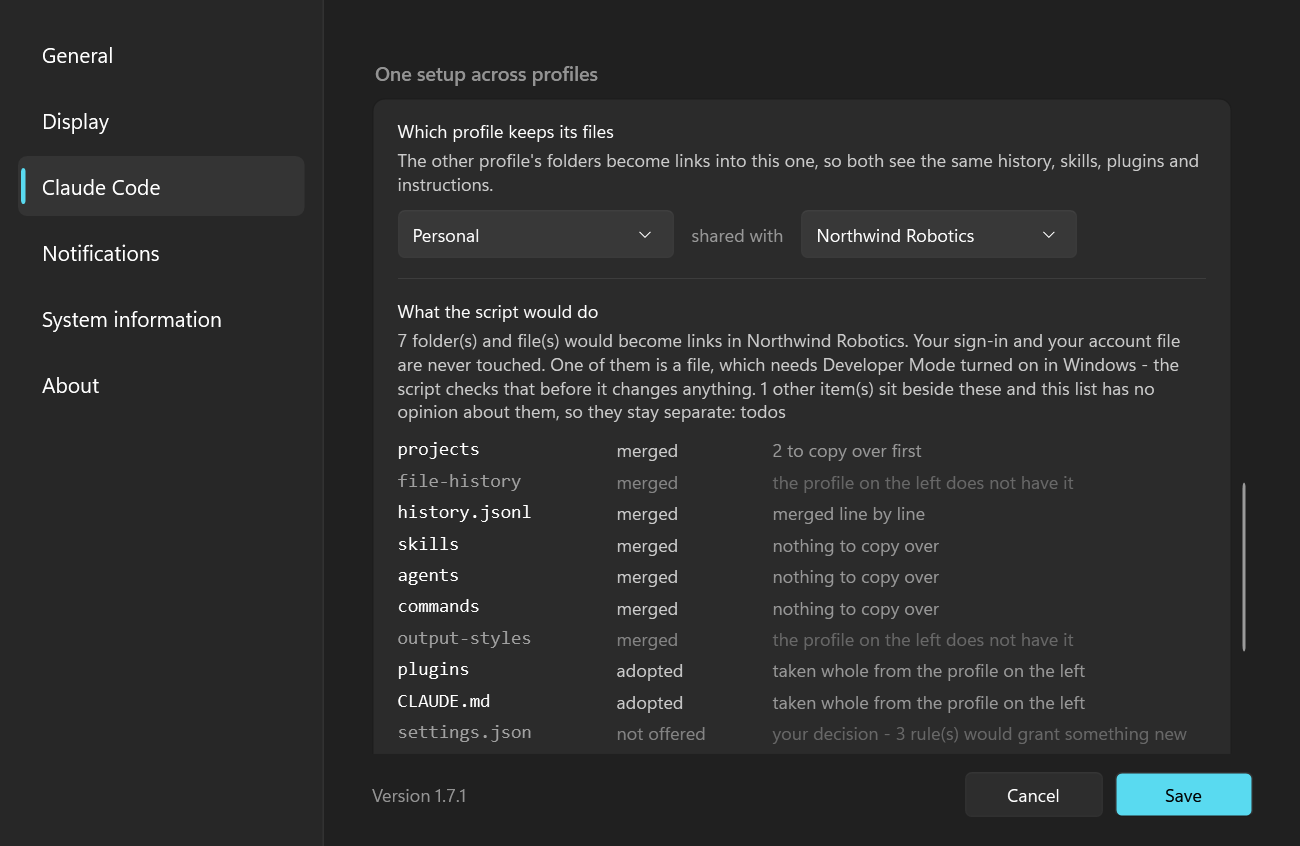
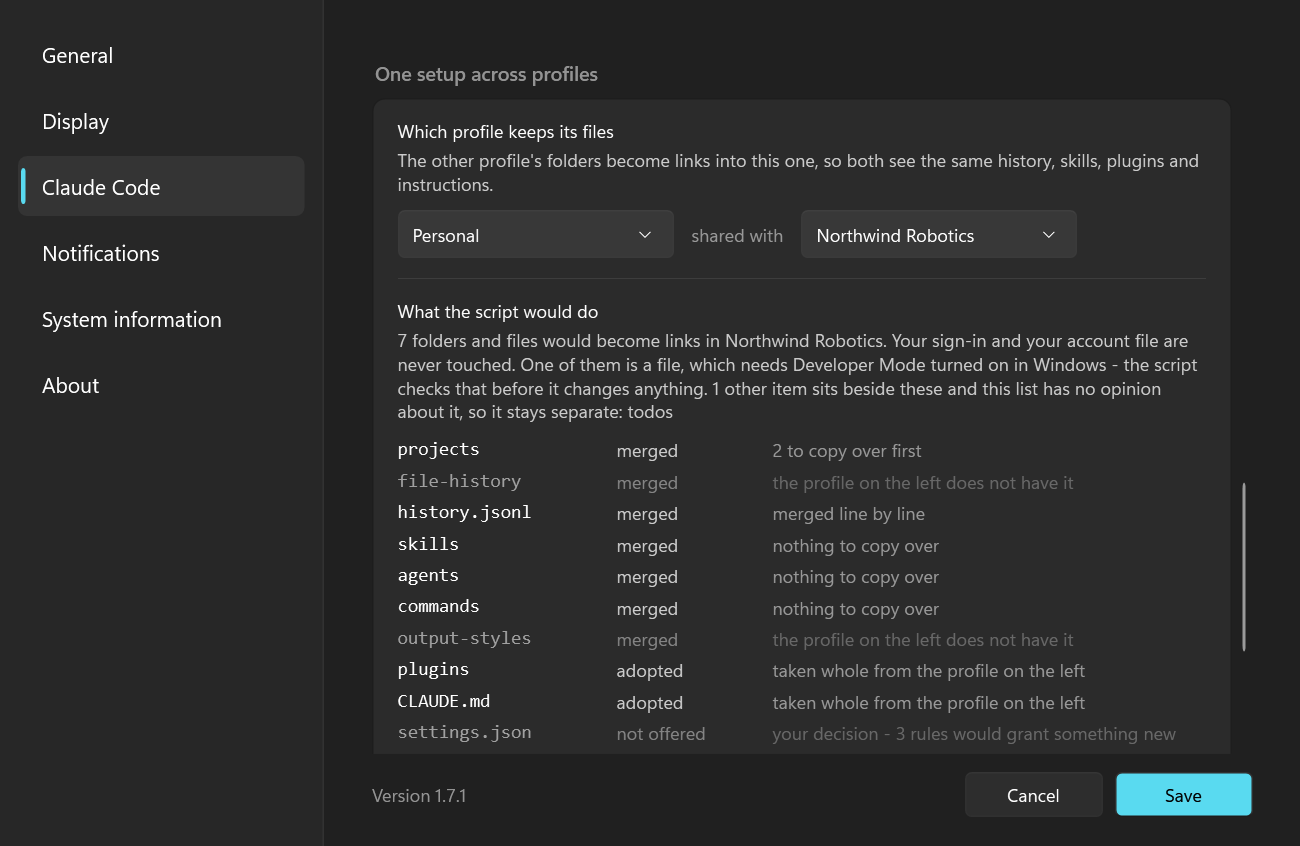
feat: pick a counted string by its number instead of writing rule(s) (T376)
- This commit introduces a new method for handling counted strings, allowing the application to select between singular and plural forms based on the count.
- The `L.N(stem, count, ...)` method replaces the previous workaround of using `(s)` for pluralization, which was not suitable for all languages.
- The implementation ensures that all five supported languages are correctly represented with only two forms (singular and plural), avoiding the complexities of Slavic languages' three-form rules.
- A self-test mechanism has been added to verify that both forms of counted strings are present and correctly formatted, preventing issues with missing translations.
- Updates to various UI components ensure that the new pluralization logic is consistently applied across the application, enhancing localization accuracy.

Changed region(s): [[0.3077, 0.3995, 0.9231, 0.4917], [0.7385, 0.8605, 0.9231, 0.8913]]

diff --git a/src/Cli/SelfTestCli.cs b/src/Cli/SelfTestCli.cs
@@ -2154,6 +2154,50 @@ internal static class SelfTestCli
             Check($"{code} keeps every placeholder en has", slipped.Length == 0,
                   Named(slipped, "differing in their {0}-style holes, so a number is dropped or misplaced"));
         }
+
+        Plurals(en);
+    }
+
+    /// <summary>
+    /// The counted strings, held as pairs (T376). <c>L.N</c> asks for <c>&lt;stem&gt;.one</c> or
+    /// <c>&lt;stem&gt;.many</c> by the number, and a stem carrying only one of the two prints the missing
+    /// half in English on whichever count the translator did not think of — or the raw key, if English is
+    /// the file that is short.
+    ///
+    /// <para><b>The plural form has to take the count; the singular does not.</b> That asymmetry is not a
+    /// concession, it is the data: the three pairs that predate <c>L.N</c> write their singulars as
+    /// <c>"1 minute"</c> and <c>", 1 week away excluded"</c>, and they are right to — in the singular the
+    /// number is one, so spelling it is prose rather than a hole, and several languages drop it entirely.
+    /// A <c>.many</c> with no <c>{0}</c> is the real defect: it says "folders" and never how many.</para>
+    ///
+    /// <para>Swept over <c>en</c> alone, because the parity checks above already hold every other file to
+    /// it key for key: a stem complete here and half-translated there is <c>missing</c>, not this.</para>
+    /// </summary>
+    private static void Plurals(IReadOnlyDictionary<string, string> en)
+    {
+        string[] stems = en.Keys
+            .Where(k => L.Plural.Any(p => k.EndsWith(p, StringComparison.Ordinal)))
+            .Select(k => k[..k.LastIndexOf('.')])
+            .Distinct(StringComparer.Ordinal).Order(StringComparer.Ordinal).ToArray();
+
+        // The precondition: a rename that lost the suffix convention would leave every claim below holding
+        // over an empty set, which is the one way this check can go quiet.
+        if (!Check($"the counted strings are found by their suffixes ({stems.Length})", stems.Length > 0,
+                   $"no key ends in {string.Join(" or ", L.Plural)}, so nothing was compared"))
+            return;
+
+        string[] halved = stems.Where(s => !L.Plural.All(p => en.ContainsKey(s + p)))
+                               .Order(StringComparer.Ordinal).ToArray();
+        Check($"every counted string is written in both forms ({stems.Length})", halved.Length == 0,
+              Named(halved, $"carrying only one of {string.Join(" / ", L.Plural)}, so the other count "
+                            + "falls back or prints the key"));
+
+        string[] countless = stems.Select(s => s + L.Plural[1])
+                                  .Where(k => en.TryGetValue(k, out string? v)
+                                              && !v.Contains("{0}", StringComparison.Ordinal))
+                                  .Order(StringComparer.Ordinal).ToArray();
+        Check($"and every plural form takes the count ({stems.Length})", countless.Length == 0,
+              Named(countless, "having no {0}, so it says what was counted and never how many"));
     }
 
     // The keys of one table matching a predicate, ordered so the same gap reads the same way twice.

diff --git a/src/Core/Localization.cs b/src/Core/Localization.cs
@@ -161,6 +161,34 @@ internal static class L
     /// <summary>A localized format string filled with <paramref name="args"/> (see <see cref="T(string)"/>).</summary>
     public static string T(string key, params object[] args) => string.Format(T(key), args);
 
+    /// <summary>The suffixes a counted string is written in: one for exactly one, one for everything
+    /// else. Public so <c>--selftest</c> sweeps for the pair rather than keeping its own copy (T376).</summary>
+    public static readonly string[] Plural = { ".one", ".many" };
+
+    /// <summary>
+    /// A localized string chosen by a count: <c><paramref name="stem"/>.one</c> when
+    /// <paramref name="count"/> is exactly 1, <c>.many</c> otherwise. The count is the first hole,
+    /// formatted through <see cref="Nums"/>, and any further <paramref name="args"/> follow it.
+    ///
+    /// <para><b>Why this exists (T376).</b> The workaround was <c>(s)</c>, and <c>(s)</c> is an English
+    /// convention: <c>regra(s)</c> reads as a typo in Portuguese and Spanish, <c>règle(s)</c> the same in
+    /// French, and <c>entry(ies)</c> is not a form of any word in any of them. The commonest case is the
+    /// worst one — <i>"1 rule(s) would grant something new"</i> — because the interesting counts are
+    /// small.</para>
+    ///
+    /// <para><b>Two forms, and deliberately not more.</b> All five shipped languages have exactly two;
+    /// Slavic three-form rules are real and are not a thing here, and a plural library is a NuGet package
+    /// the single-<c>.exe</c> rule forbids (§I.3). If a sixth language ever needs three, that is the day
+    /// to grow this — not before.</para>
+    ///
+    /// <para>Falls back the same way <see cref="T(string)"/> does, key by key, so a translation missing
+    /// one form of a pair reads in English rather than printing a key. <c>--selftest</c> is what stops that
+    /// from being how it ships.</para>
+    /// </summary>
+    public static string N(string stem, double count, params object[] args) =>
+        string.Format(T(stem + (Math.Abs(count - 1) < 0.0001 ? Plural[0] : Plural[1])),
+                      new object[] { Nums.Of(count) }.Concat(args).ToArray());
+
     // Parsed string tables, loaded from the embedded JSON on first use and cached for the process.
     private static readonly Dictionary<Lang, Dictionary<string, string>> _tables = new();
 

diff --git a/src/Ui/SettingsPage.General.cs b/src/Ui/SettingsPage.General.cs
@@ -29,8 +29,11 @@ internal partial class SettingsPage
         RetryValue.Text = RetryText((int)Math.Round(RetrySlider.Value));
     }
 
-    private static string RetryText(int seconds) =>
-        seconds == 1 ? L.T("settings.sec.one") : L.T("settings.sec.many", seconds);
+    // Through L.N rather than a hand-rolled `== 1 ?` (T376). This call site and the one below were two of
+    // the three that had written the same conditional themselves — and this one passed the raw int, so its
+    // number went through the current culture instead of Nums (T216) on the one surface where a comma for
+    // a decimal point is the difference between 1.5 and 15.
+    private static string RetryText(int seconds) => L.N("settings.sec", seconds);
 
     private void UpdateIntervalLabel()
     {
@@ -41,9 +44,9 @@ internal partial class SettingsPage
         UpdateCostEstimate(m);
     }
 
-    // The number is invariant like every other one in the app (Nums, T216); only the unit is translated.
-    private static string IntervalText(double minutes) =>
-        minutes == 1.0 ? L.T("settings.min.one") : L.T("settings.min.many", Nums.Of(minutes));
+    // The number is invariant like every other one in the app (Nums, T216); only the unit is translated —
+    // and L.N is now the one place that holds both halves of that (T376).
+    private static string IntervalText(double minutes) => L.N("settings.min", minutes);
 
     // Show, live for the chosen cadence, how much the polling "heartbeat" consumes. It uses Claude
     // Code's subscription login, so there is no separate bill — it just draws a sliver of your usage;

diff --git a/src/Ui/SettingsPage.ClaudeCode.cs b/src/Ui/SettingsPage.ClaudeCode.cs
@@ -309,10 +309,10 @@ internal partial class SettingsPage
         // The edge, on the surface the decision is made on (T374): a list of opinions has to say what it
         // has no opinion about, or the reader is told nothing is missing.
         string[] unclaimed = _linkPlan.Edge.Unclaimed;
-        LinkPlanCaption.Text = L.T("settings.cc.linkPlanCount", Nums.Of(acting), _linkPlan.SecondaryLabel)
+        LinkPlanCaption.Text = L.N("settings.cc.linkPlanCount", acting, _linkPlan.SecondaryLabel)
                                + (_linkPlan.NeedsSymlink ? " " + L.T("settings.cc.linkNeedsDev") : "")
                                + (unclaimed.Length > 0
-                                   ? " " + L.T("settings.cc.linkEdge", Nums.Of(unclaimed.Length),
+                                   ? " " + L.N("settings.cc.linkEdge", unclaimed.Length,
                                        string.Join(", ", unclaimed.Take(4))
                                        + (unclaimed.Length > 4 ? " …" : ""))
                                    : "");

diff --git a/src/Ui/LinkPlanRow.cs b/src/Ui/LinkPlanRow.cs
@@ -75,7 +75,7 @@ public sealed class LinkPlanRow
             {
                 null or { Error.Length: > 0 } => L.T("settings.cc.linkWithheldDetail"),
                 { Empty: true } => L.T("settings.cc.linkWithheldSame"),
-                { } w => L.T("settings.cc.linkWithheldGrants", Nums.Of(w.Granting)),
+                { } w => L.N("settings.cc.linkWithheldGrants", w.Granting),
             };
         if (s.AlreadyLinked) return L.T("settings.cc.linkAlready");
         if (!s.OnPrimary) return L.T("settings.cc.linkAbsent");

diff --git a/IMPROVEMENTS.md b/IMPROVEMENTS.md
@@ -43,8 +43,6 @@
 
 ---
 
-## Block G — Localization
-
 ## §I — House constraints
 
 Binding for every task. These are product decisions, not preferences — a task that violates one is
@@ -832,37 +830,3 @@ maintained the same way instead of each carrying its own conventions.
 T369 finished the shape by drawing what the other three have and this one did not: a band closing
 the hero and opening the footer, whose motif is the product's own subject. Here that is the icon —
 bars rising from a floor, with the even-pace line ruled across them.
-
-## XCV What the linking surface does not say
-
-Four tasks shipped the linking script and the page that offers it, and running the whole thing on a
-real pair is what produced the three below. None of them is about the mechanism: the links work, the
-merges work, the refusals hold. They are about what the surface does not say — an entry the
-catalogue has no row for, a card that no longer fits in one screenshot, and a plural rule the app
-has never had.
-
-That is the shape to expect from a fixed catalogue and a growing page. The catalogue is a list of
-opinions, and the honest failure mode of a list of opinions is silence about everything not on it.
-
-### XCV.3 A plural rule the app has never had (T376)
-
-This app has never had a plural rule, and the workaround is `(s)`. `SourceRows` states the policy
-the other way round and states it well: a count belongs in a header rather than in a string that
-would need one. That worked while the counts were few and lived in headers.
-
-The linking card broke it. One surface now carries `folder(s) and file(s)`, `rule(s)`, `to copy
-over`, `command(s)`, `entry(ies)` and `session uuid(s)`, in five languages — and `(s)` is an English
-convention. Portuguese and Spanish read `regra(s)` as a typo, French `règle(s)` the same, and
-`entry(ies)` is not a form of any word in any of them. The single worst case is 1: **"1 rule(s)
-would grant something new"** is the sentence a person sees most often, because the interesting
-unions are small.
-
-- **Two forms per count, chosen by the number.** `L.T("…one", n)` and `L.T("…many", n)`, resolved by a
-  helper that takes the count and the key stem. Two forms cover all five languages this app ships;
-  Slavic three-form rules are a real thing and not a thing here, so the design stops at two rather than
-  importing a plural library the single-`.exe` rule forbids anyway (§I.3).
-- **Asserted, or it will not hold.** `--selftest` already fails a key present in one language and a
-  `{0}` lost in translation (T185). A stem with `…one` and no `…many` — or either without a `{0}` — is
-  the same class of hole and belongs in the same sweep.
-- **Not a rewrite of every string.** Only counts a user reads, which is a list this task can enumerate.
-  A dev read-out keeps `(s)`; its audience is whoever is editing this repository.

diff --git a/CHANGELOG.md b/CHANGELOG.md
@@ -23,7 +23,7 @@
 | [D](#block-d--auth--api-resilience) | Auth & API resilience |
 | [E](#block-e--reset-notifications--toasts) | Reset notifications & toasts |
 | [F](#block-f--statistics-window-pace-report) | Statistics window (pace report) |
-| [G](#block-g--localization) | Localization (active — see ROADMAP) |
+| [G](#block-g--localization) | Localization |
 | [H](#block-h--tray-display-options) | Tray display options |
 | [I](#block-i--context-load-inspector) | Context Load Inspector |
 | [J](#block-j--activity-aware-pacing) | Activity-aware pacing |
@@ -183,6 +183,7 @@
 - **T60** — Language selection in Settings (`auto` = follow the OS) with a restart prompt, since localized strings resolve when a window is parsed. (`304b9ca`)
 - **T216** — Numbers are invariant everywhere and dates follow the display language, stated once in Nums and named into L.DateCulture; the split between chart and prose was refused because one context row carries a size beside a token estimate, so wherever its line fell it cut through a sentence. The format sweep now runs every static formatter on all six surfaces, not twelve on one page.
 - **T263** — A date takes the order of its fields from the culture and not from a pattern in the source, through Dates - the other half of the rule Nums states for numbers. The Statistics axis put the month first in French, where all four non-English cultures put the day first, and its day dividers read 3/8 for 3 August to an American whose short date is month-first, on the chart the published screenshots are of. Checked over every shipped language against that culture own MonthDayPattern and ShortDatePattern, with the precondition that they disagree, so the sweep is not vacuous. The three published stats captures are regenerated.
+- **T376** — L.N(stem, count, ...) picks <stem>.one or <stem>.many by the number and passes it as {0} through Nums, so the three counted strings on the linking card read "1 outro item fica ao lado destes ... continua separado" in Portuguese instead of "1 item(ns)" - agreement on the verb and the pronoun, which (s) could never carry. Two forms and not three: all five shipped languages have two, Slavic rules are real and not a thing here, and a plural library is a NuGet package the single-exe rule forbids. The convention turned out to predate the helper: three pairs were already written this way and three call sites had each hand-rolled the same == 1 conditional, one of them passing a raw int so its number went through the current culture instead of Nums. Two of those now go through L.N; the method note keeps its deferred fragment. --selftest sweeps for the pair and fails a stem with one half, or a .many with no {0} - the singular needs none, because "1 minute" is prose and several languages drop the digit. Both seen red before shipping.
 
 ## Block H — Tray display options
 

diff --git a/.claude/skills/file-map/SKILL.md b/.claude/skills/file-map/SKILL.md
@@ -108,7 +108,7 @@ One file per flag family; `Main` dispatches, these run and exit.
 
 | File | Responsibility |
 |---|---|
-| `src/Core/Localization.cs` | The dependency-free `L` / `{local:Loc key}` layer over the embedded `lang\<code>.json` files: language picked from Settings, else the OS UI language, English as the fallback for a missing key. |
+| `src/Core/Localization.cs` | The dependency-free `L` / `{local:Loc key}` layer over the embedded `lang\<code>.json` files: language picked from Settings, else the OS UI language, English as the fallback for a missing key. Also `L.N(stem, count, …)` — a counted string as `<stem>.one` / `<stem>.many`, the count as `{0}` through `Nums` (T376). Two forms, not three: all five shipped languages have two, and a plural library is a NuGet package §I.3 forbids. `--selftest` fails a stem with only one half, and a `.many` with no `{0}`; the singular needs none, because `"1 minute"` is prose. |
 | `src/Core/Dates.cs` | The other half of `Nums`' rule (T263): a date follows the display language, and that means the **order** of its fields and not only the words. A custom pattern pins the order while the culture supplies the month name, which is how an axis read *"début août 3"* in French and `3/8` for 3 August to an American whose short date is `M/d`. `MonthDay` narrows the culture's own `MonthDayPattern`; `DayMonthDigits` takes the order and the separator from its `ShortDatePattern`. The System page needs none of this — standard specifiers (`d`, `g`) already carry the order, and only a year-less date and a plot label do not have one. |
 | `src/Core/Nums.cs` | The app's **only** namer of a culture for a number (T216): `Of` and `Pct`, both invariant, plus the reasoning for why there is one convention rather than a split between charts and prose. Dates are the other half of that rule and go through `L.DateCulture`, which is named for what it may reach. `--selftest`'s `format` section sweeps every static formatter on every surface listed in `Surfaces` against it. |
 | `src/Core/OutFile.cs` | Creating a file a flag was told to write, directory and all (T187) — the rule every capture shares, stated once instead of at each call site. |

diff --git a/ROADMAP.md b/ROADMAP.md
@@ -24,10 +24,6 @@
 | ⏳ | Partial — direction is right, more work remains |
 | 🛠 | In progress |
 
-## Block G — Localization
-
-- 📋 **T376** (deps: —) **One card shows six counts as rule(s) and entry(ies), an English convention four of the five languages lack** — Two forms per count cover every language this app ships, and the selftest sweep that already catches a lost {0} is where the pair is held. → §XCV.3
-
 ## Non-goals (do NOT add as tasks)
 
 Binding constraints — see [IMPROVEMENTS.md](IMPROVEMENTS.md) §I for the full text. Summary:
